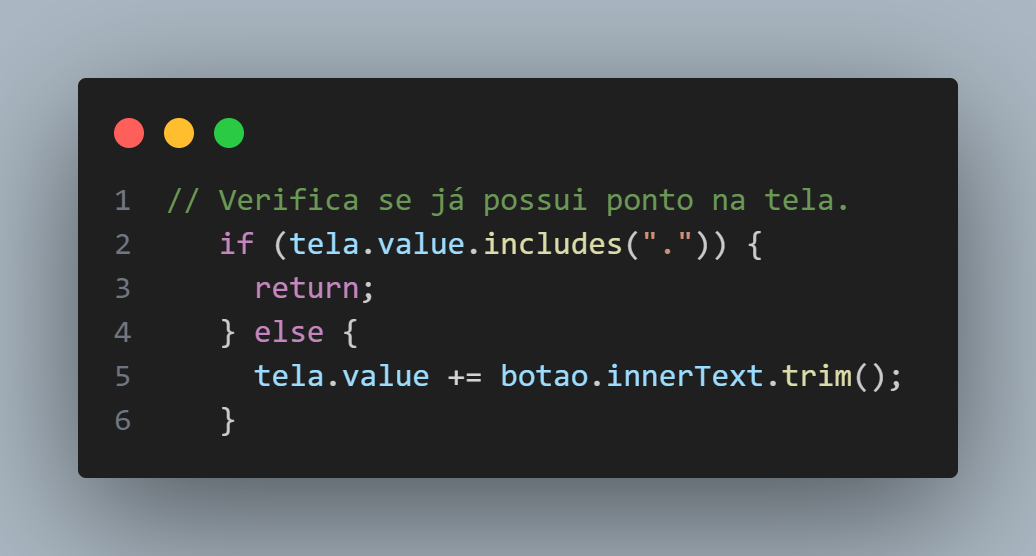
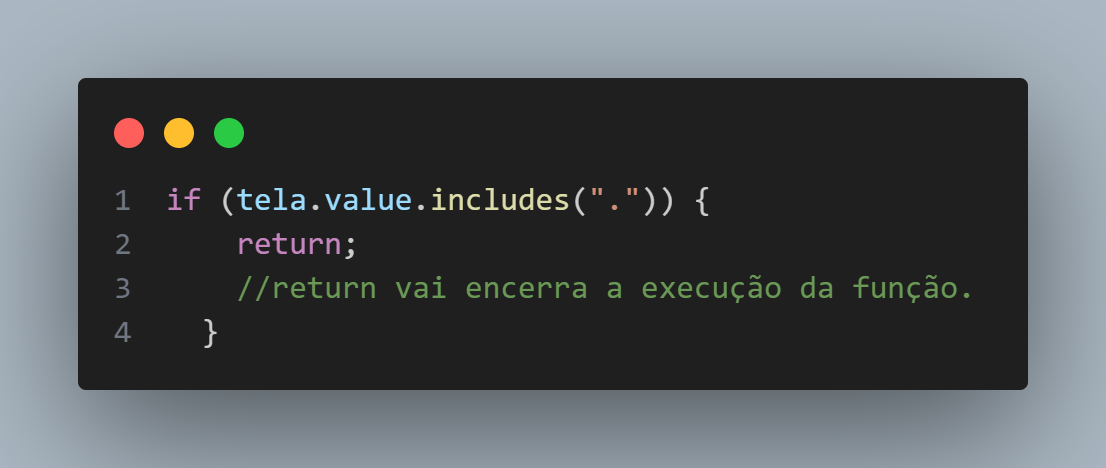
Alterações no readme e adição de comentários no script.

diff --git a/Script/Script.js b/Script/Script.js
@@ -4,12 +4,11 @@ let tela = document.getElementById("tela");
 let botoesNumericos = document.querySelectorAll(".numero");
 botoesNumericos.forEach(function (button) {
   button.addEventListener("click", function () {
-
-   // Apaga o zero inicial.
-    if (tela.value === "0") { 
+    // Apaga o zero inicial.
+    if (tela.value === "0") {
       tela.value = "";
     }
-      tela.value += button.innerText.trim();
+    tela.value += button.innerText.trim();
   });
 });
 
@@ -18,18 +17,24 @@ let botaoPonto = document.querySelector(".ponto");
 botaoPonto.addEventListener("click", escreverPonto);
 
 function escreverPonto() {
-    if (tela.value.includes(".")) {
-      return;
-    } else {
-      tela.value += botaoPonto.innerText.trim();
-    }
+  // Verifica se já possui um ponto na tela.
+
+  // Se verdadeiro, não será adicionado.
+  if (tela.value.includes(".")) {
+    return;
+    //return vai encerra a execução da função.
+  }
+  // Caso contrário o ponto é adicionado.
+  else {
+    tela.value += botaoPonto.innerText.trim();
+    //O trim() é apenas pra remover espaços em branco de uma string
+  }
 }
 
 // Função escrever botões de operação.
 let botoesOperando = document.querySelectorAll(".operando");
 botoesOperando.forEach(function (botao) {
   botao.addEventListener("click", function () {
-
     if (tela.value === "0") {
       tela.value = "";
     }
@@ -40,15 +45,13 @@ botoesOperando.forEach(function (botao) {
     // Verifica se ele é um operador.
     let CaractereOperador = "+-x÷".includes(ultimoCaractere);
 
-     // Substituir operador por outro.
+    // Se sim, será substituido por outro.
     if (CaractereOperador) {
-
-      // Slice(0, -1) vai apagar o último caractere.
       tela.value = tela.value.slice(0, -1);
+      // Slice(0, -1) vai apagar o último caractere.
 
-      // Em seguida adicionamos um novo.
       tela.value += botao.innerText.trim();
-
+      // Em seguida adicionamos um novo.
     } else {
       tela.value += botao.innerText.trim();
     }
@@ -82,24 +85,31 @@ calcularNumero.addEventListener("click", calcular);
 function calcular() {
   let tela = document.getElementById("tela").value;
 
-  // Troca x e ÷ por * e / para que o calculo sejá realizado corretamente.
+  // Troca x e ÷ por * e / para que o cálculo sejá realizado corretamente.
   let multiplicação = tela.replace(/x/g, "*");
   let divisão = multiplicação.replace(/÷/g, "/");
   let formataçãoFinal = divisão;
 
+  // O new Function vai realizar o cálculo :)
   try {
     let calcular = new Function("return " + formataçãoFinal);
     let resultado = calcular();
     document.getElementById("tela").value = resultado;
 
- // Verifica se ele possui o tamanho maior que 10 caracteres para notação científica.
+    // Implementar notação científica.
+
+    // Converter resultado em uma string.
     let resultadoString = resultado.toString();
+
+    // Verifica se ele possui o tamanho maior que 10 caracteres.
     if (resultadoString.length > 10) {
       let resultadoFormatado = resultado.toFixed(1);
+      // O toFixed(1) vai formatar o resultado com uma casa decimal.
+
+      // Adiciona o resultado formatado a tela.
       let tela = document.getElementById("tela");
       tela.value = resultadoFormatado;
     }
-
   } catch (error) {
     alert(
       "[ERRO] Desculpe, ocorreu um erro durante o cálculo. Por favor, verifique os dados inseridos e tente novamente."

diff --git a/README.md b/README.md
@@ -1,65 +1,92 @@
 ![Calculadora JavaScript](./imagens/Calculadora-JavaScript.png)
 
+## Introdução
+
+Este projeto é uma calculadora simples criada com HTML, JavaScript e CSS. Foi desenvolvido como parte do aprendizado dessas tecnologias, com foco especial na interação entre botões usando JavaScript.
+
 ## Índice:
+
 - [Como impedir a repetição do ponto](#como-impedir-a-repetição-do-ponto)
 - [Como evitar a adição de operadores consecutivos](#como-evitar-a-adição-de-operadores-consecutivos)
 - [Como implementar notação científica](#como-implementar-notação-científica)
 
-## Introdução
-Este projeto é uma calculadora simples criada com HTML, JavaScript e CSS. Foi desenvolvido como parte do aprendizado dessas tecnologias, com foco especial na interação entre botões usando JavaScript.
-
 ## Dificuldades Enfrentadas 💪
+
 A parte mais desafiadora foi impedir a repetição do ponto e evitar a adição de operadores consecutivos. Além disso, a implementação da notação científica.
 
-## 👀 Ver projeto
+## Ver projeto 👀
+
 Acesse o link [aqui](https://brenolira01.github.io/Calculadora-Javascript/).
 
 ## Demonstração do Projeto
+
 ![Imagem de Exemplo](./imagens/demonstração.gif)
 
 ## Como impedir a repetição do ponto?
-Neste trecho de código vamos usar o método `includes()` pra checar se existe um ponto na tela, juntamente com uma estrutura de controle, __if__ e __else__.
 
+Primeiro vamos utilizar o método `includes()`, esse método vai checar se existe um ponto na tela. Em seguida vamos usar uma estrutura de controle `if` e `else` para impedir a inserção do ponto.
+
+Exemplo:
 ![Inclui ponto](./imagens/readme/includes-ponto.png)
 
-Caso tenha, o __return;__ vai impedir que outro ponto seja adicionado.
+Ou seja, se existe um ponto na tela sua inserção será impedida.
+
+Em seguida vamos pegar <span style="color: lightblue;">"tela.value"</span>, valor de tela, e vamos adicionar o botão ponto, <span style="color: lightblue;">"botaoPonto.innerText"</span>
+
+Exemplo:
+![Inclui ponto](./imagens/readme/escrever-ponto.png)
+
+Resumindo, ficaria assim:
+
+![Inclui ponto](./imagens/readme/função-ponto.png)
 
 ## Como evitar a adição de operadores consecutivos?
+
 Pra isso vamos obter o último caractere da tela utilizando o método `slice()`. Em seguida, usamos o método `includes()` para verificar se ele é um operador.
 
 ![Slice e inclui operador](./imagens/readme/slice-includes-operador.png)
 
-Agora vamos usar a estrutura de controle `if` e `else` para permitir a substituição caso necessário.
+Agora que temos o último caractere e sabemos se ele é um operador vamos usar a estrutura de controle`if` e `else` para permitir a substituição caso necessário.
 
-Também vamos usar o método `slice(0, -1)`. Mas o que ele faz?
+![Botão de operação](./imagens/readme/checar-operação.png)
 
- Ele selecionando todos os caracteres da string, exceto o último. Ou seja, é como se estivéssemos apagando o último caractere.
+O trecho <span style="color: lightblue;">"slice(0, -1)"</span> seleciona todos os caracteres da string, exceto o último. Ou seja, é como se estivéssemos apagando o último caractere.
 
-![Botão de operação](./imagens/readme/Botão-de-operação.png)
+Resumindo, ficaria assim:
+
+![Botão de operação](./imagens/readme/função-operação.png)
 
 ## Como implementar notação científica?
+
+<span style="color: lightblue;"></span>
 Para aplicarmos a notação científica, é necessário definir um limite de tamanho para o resultado.
 
 por exemplo:
 
-Fazendo o calculo 9,6 x 3 = 28.799999999999997, temos o resultado de __18 caracteres__. Para que o resultado não seja tão grande podemos usar uma estrutura de controle como __if__ e __else__.
+Fazendo o calculo 9,6 x 3 = 28.799999999999997, temos o resultado de <span style="color: lightblue;">18 caracteres</span>. Para que o resultado não seja tão grande podemos usar uma estrutura de controle como `if` e `else`.
 
-Vamos colocar um limite de __10 caracteres__, quando ele for ultrapassado, sera feita a notação.
+Vamos colocar um limite de <span style="color: lightblue;">10 caracteres</span>, quando ele for ultrapassado, sera feita a notação científica.
 
-Mas antes precisamos converter o resultado para __string__ para obtermos o seu tamanho. Podemos fazer isso utilizando o método `.toString()`. Assim podemos saber quantos caracteres tem o resultado.
+Mas antes precisamos converter o resultado do calculo para string para obtermos o seu tamanho. Podemos fazer isso utilizando o método `.toString()`. Assim podemos saber quantos caracteres tem o resultado.
 
 ![To string](./imagens/readme/to.string.png)
 
-Agora vamos definir um limite de __10 caracteres__. Também utilizaremos o método `toFixed()` para formatar o resultado em uma casa decimal.
+Agora vamos definir um limite de **10 caracteres**. Também utilizaremos o método `toFixed()` para formatar o resultado em uma casa decimal.
 
 ![To fixed](./imagens/readme/to.fixed.png)
 
-Com isso, temos 9,6 x 3 = __28.8__
+Resumindo, ficaria assim:
+
+![To fixed](./imagens/readme/notação-científica.png)
+
+Com isso, temos 9,6 x 3 = **28.8**
 
 ## 🧠 Tecnologias Utilizadas
+
 ![JavaScript](https://img.shields.io/badge/javascript-%23323330.svg?style=for-the-badge&logo=javascript&logoColor=%23F7DF1E) ![HTML5](https://img.shields.io/badge/html5-%23E34F26.svg?style=for-the-badge&logo=html5&logoColor=white) ![CSS3](https://img.shields.io/badge/css3-%231572B6.svg?style=for-the-badge&logo=css3&logoColor=white)
 
 ## 🔍 Fontes
+
 Os elementos adicionados ou modificados neste projeto foram obtidos de diversas fontes. Abaixo está a lista de onde cada elemento foi encontrado:
 
 - **Ícone de apagar**: Fonte: <a href="https://icon-icons.com/pt/icone/retrocesso/152694" title="retrocesso ícones">Ícones criados por Tailwind Labs - icon-icons</a>
@@ -69,14 +96,18 @@ Os elementos adicionados ou modificados neste projeto foram obtidos de diversas 
 Agradeço aos criadores originais por disponibilizarem esses recursos.
 
 ## 🌱 Contribuições
+
 Contribuições são bem-vindas! Sinta-se à vontade para abrir problemas e solicitações de pull para melhorar este projeto.
 
 ## Autor
+
 Feito por [Francisco Breno](https://www.linkedin.com/in/breno-lira-perfil).
 
 ## 📫 Contato
+
 [![Email](https://img.shields.io/badge/Gmail-D14836?style=for-the-badge&logo=gmail&logoColor=white)](mailto:franciscobrenolira@gmail.com)
 
 ## 📄 Licença
+
 Este projeto é licenciado sob os termos da [Licença MIT](/LICENSE.txt).
 Leia o arquivo [LICENSE](/LICENSE.txt) para obter mais detalhes sobre as permissões e restrições da Licença MIT.
